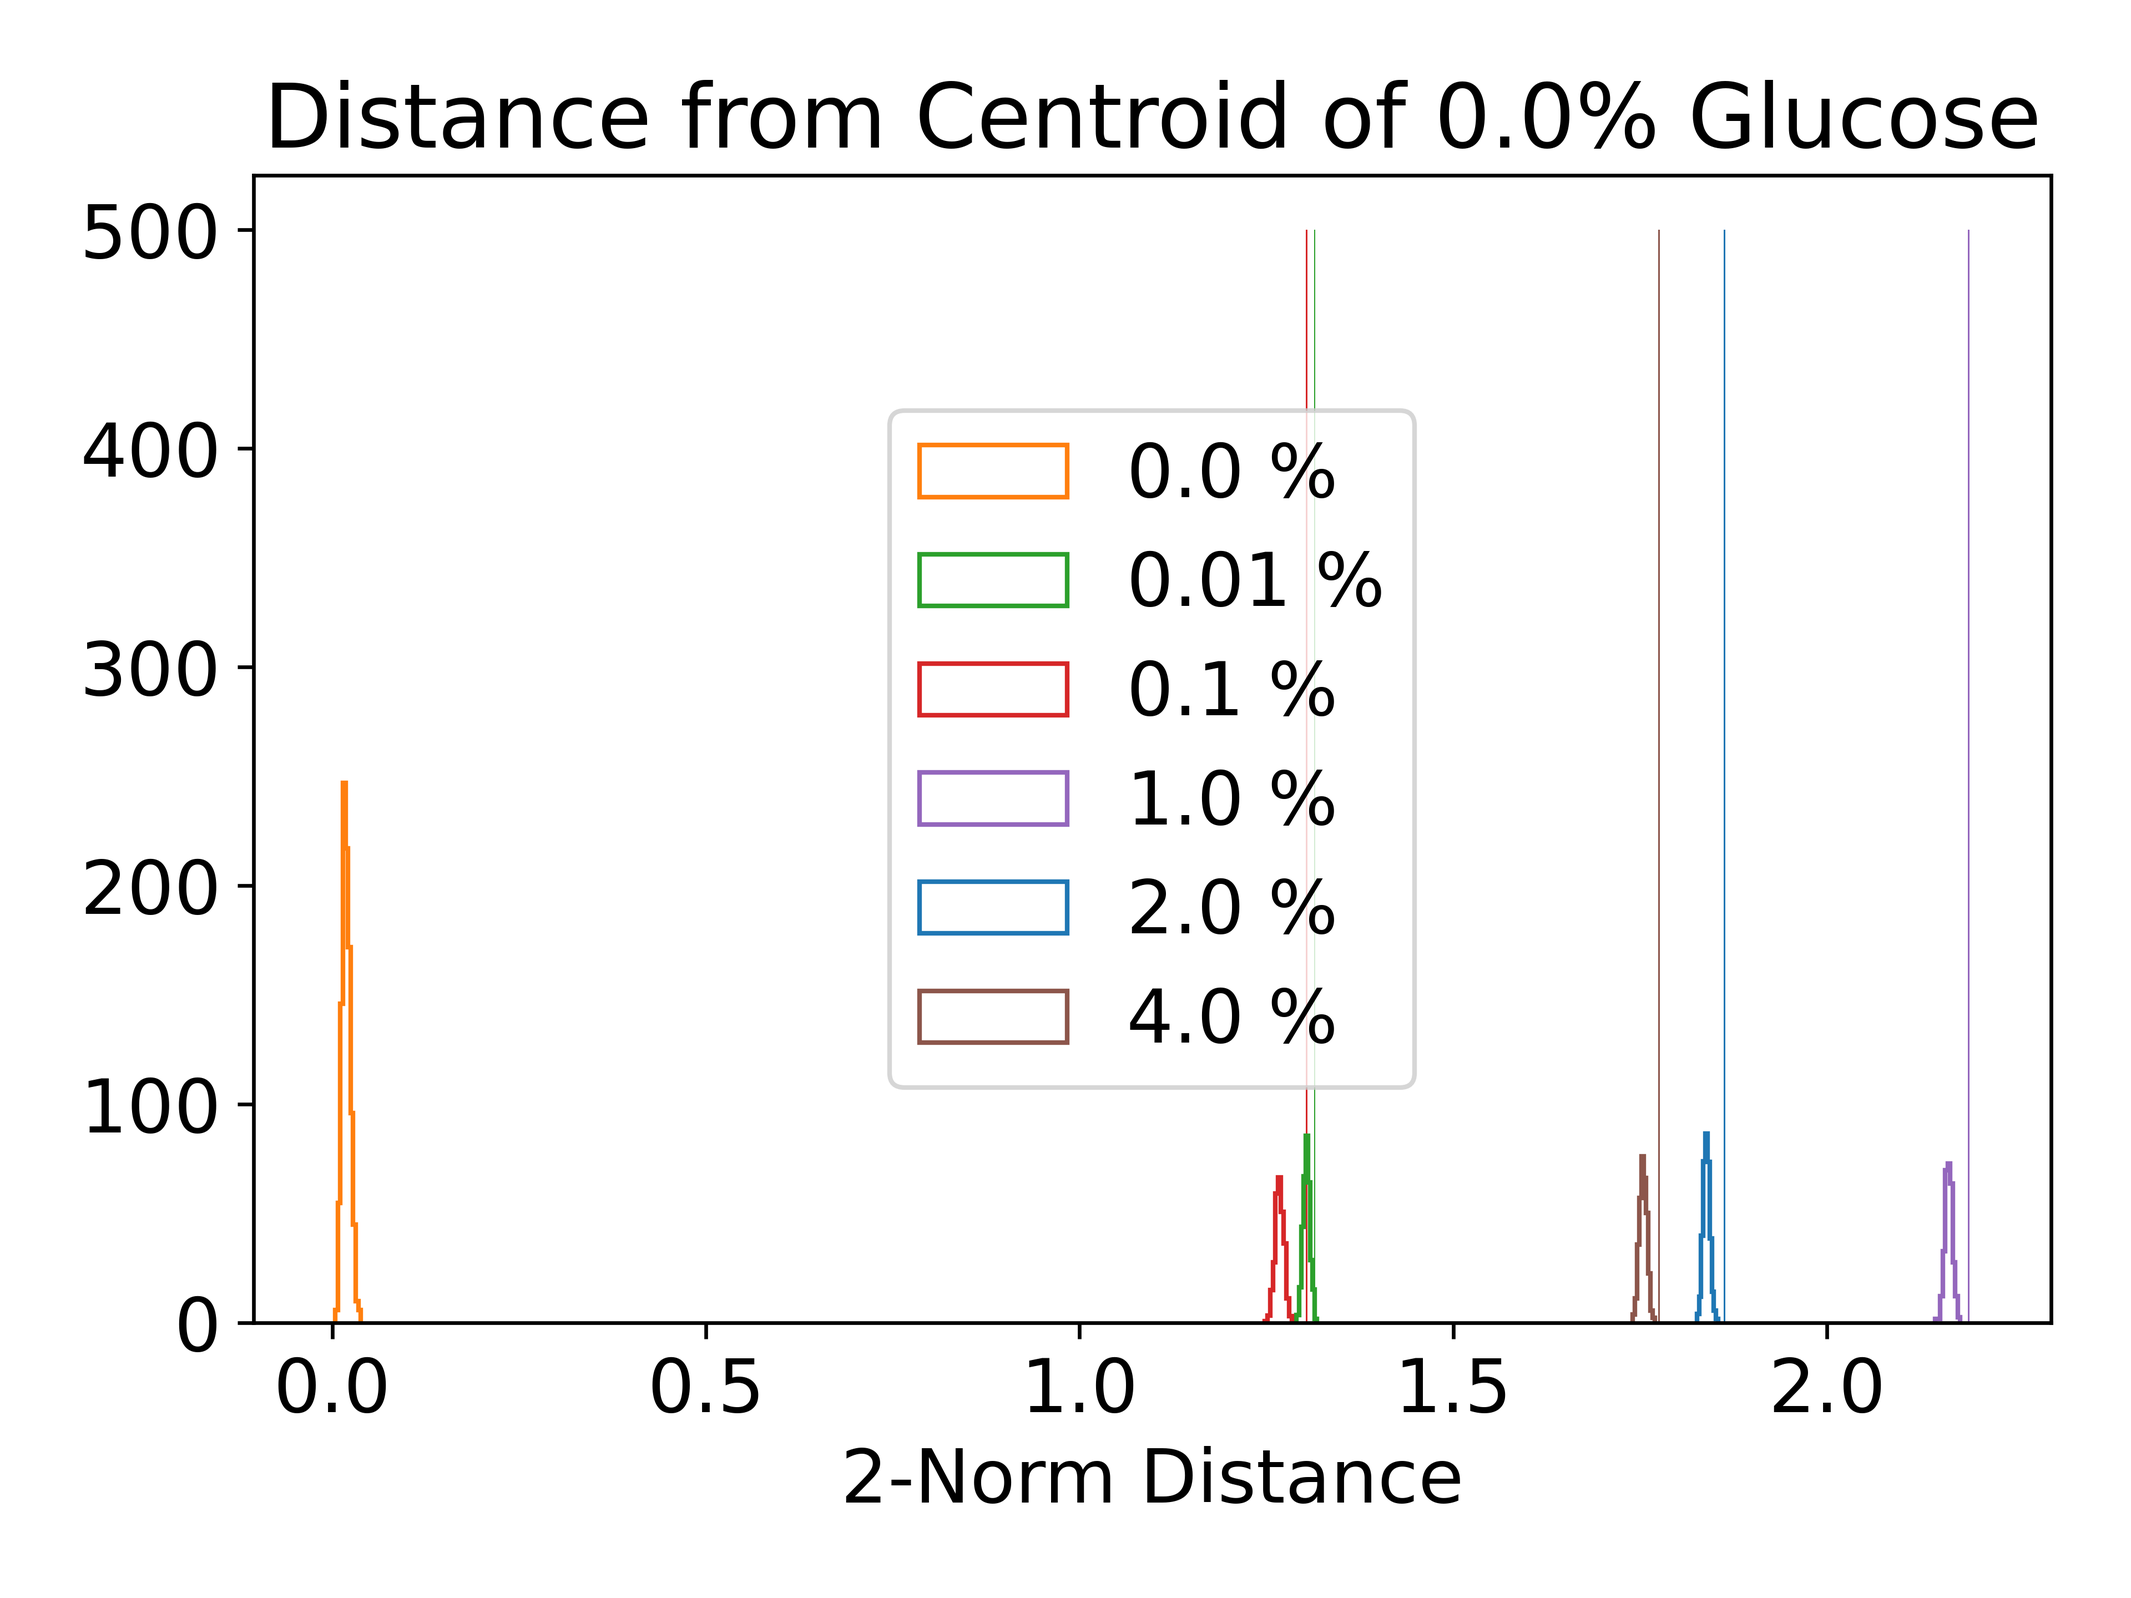
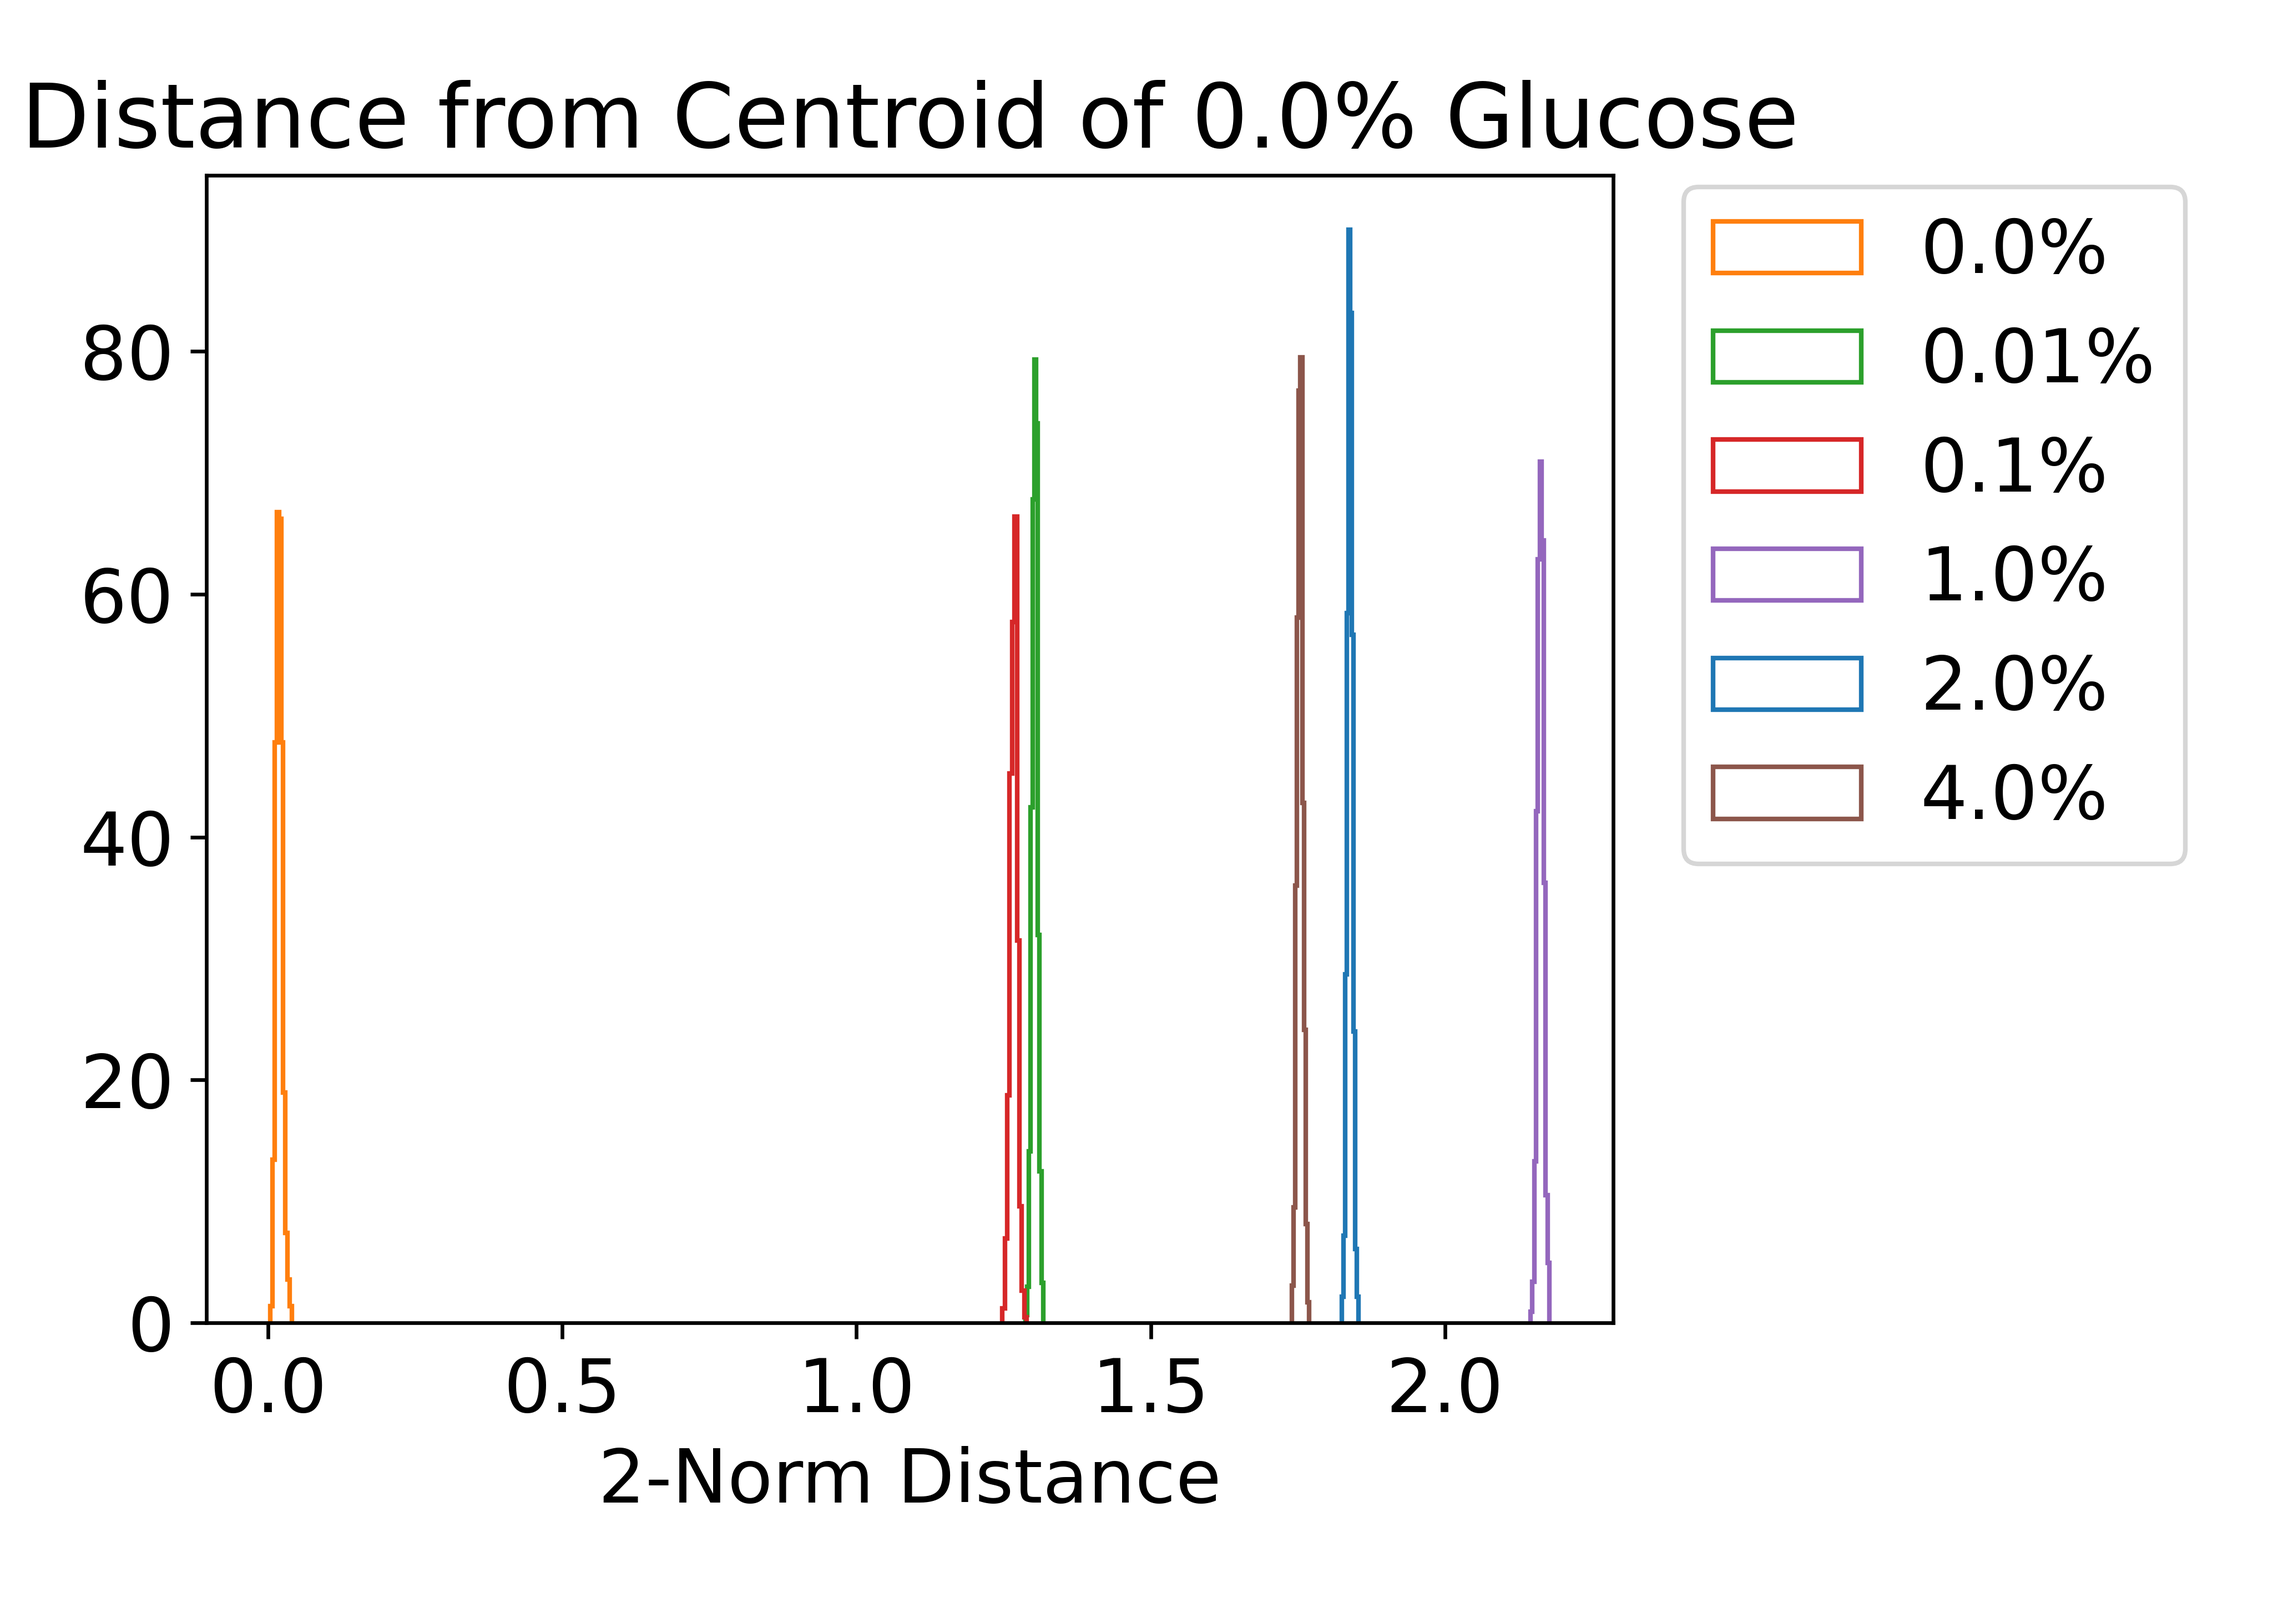
improve distance distribution; plot manual segment comparison

diff --git a/scripts/rebuttal/manual_segment.py b/scripts/rebuttal/manual_segment.py
@@ -19,7 +19,7 @@ organelles = [
 folder_img = Path("images/rebuttal_manual")
 folder_data = Path("data/EYrainbow_glucose_largerBF/")
 
-# %%
+# %% white pixels in ImageJ uint16 images are not 'white'
 
 whites = {
     "peroxisome":   1608,
@@ -203,24 +203,42 @@ pivot_orga_bycell.loc[pivot_manual_bycell_totl.index,'total'] = pivot_manual_byc
 df_orga_bycell = pivot_orga_bycell.reset_index()
 
 # %%
+correlations = []
 for organelle in organelles:
-    plt.figure()
-    plt.title(organelle)
-    plt.scatter(
-        df_orga_bycell.loc[
+    x = df_orga_bycell.loc[
             df_orga_bycell["organelle"].eq(organelle)
           & df_orga_bycell["method"].eq('ilastik'),
-            "total"
-        ],
-        df_orga_bycell.loc[
+            ["idx-cell","total"]
+        ]
+    y = df_orga_bycell.loc[
             df_orga_bycell["organelle"].eq(organelle)
           & df_orga_bycell["method"].eq('manual'),
-            "total"
+            ['idx-cell',"total"]
         ]
-    )
-    plt.plot(
-        [np.min(df_orga_bycell.loc[df_orga_bycell["organelle"].eq(organelle)& df_orga_bycell["method"].eq('ilastik'),"total"]),np.max(df_orga_bycell.loc[df_orga_bycell["organelle"].eq(organelle)& df_orga_bycell["method"].eq('ilastik'),"total"])],
-        [np.min(df_orga_bycell.loc[df_orga_bycell["organelle"].eq(organelle)& df_orga_bycell["method"].eq('ilastik'),"total"]),np.max(df_orga_bycell.loc[df_orga_bycell["organelle"].eq(organelle)& df_orga_bycell["method"].eq('ilastik'),"total"])]
-    )
-    plt.show()
+    x.set_index('idx-cell',inplace=True)
+    y.set_index('idx-cell',inplace=True)
+    xy = x.join(y,how='outer',lsuffix="_x",rsuffix="_y")
+    # xy_zero = xy.copy()
+    # xy_zero.loc[xy_zero["total_x"].isna(),"total_x"] = 0
+    # xy_zero.loc[xy_zero["total_y"].isna(),"total_y"] = 0
+    xy_drop = xy.dropna()
+    corr = np.corrcoef(xy_drop,rowvar=False)
+    correlations.append(corr[1,0])
+    
+    plt.figure()
+    plt.title(f"{organelle} Segmented Total Volume per Cell",fontsize=18)
+    plt.xlabel("Ilastik/$\\mu m^3$",fontsize=18)
+    plt.ylabel("Manual/$\\mu m^3$",fontsize=18)
+    plt.scatter(x,y)
+    # plt.plot(
+    #     [x.min(),x.max()],
+    #     [x.min(),x.max()]
+    # )
+    plt.savefig(f"plots/manual_segment/scatter_{organelle}.png")
+plt.figure()
+plt.bar(np.arange(6),correlations)
+plt.xticks(np.arange(6),organelles)
+plt.xlabel("Organelle",fontsize=18)
+plt.ylabel("Correlation Coefficient",fontsize=18)
+plt.savefig(f"plots/manual_segment/correlation_coefficient.png")
 # %%

diff --git a/scripts/rebuttal/pca_resample.py b/scripts/rebuttal/pca_resample.py
@@ -2,6 +2,7 @@
 import numpy as np
 import pandas as pd
 import matplotlib.pyplot as plt
+from matplotlib.figure import figaspect
 from pathlib import Path
 from sklearn.decomposition import PCA
 from sklearn.linear_model import LinearRegression
@@ -227,7 +228,7 @@ pca = PCA(n_components=6)
 pca.fit(np_pca)
 pca_components = pca.components_
 
-# %%
+# align pc with condition vectors
 cosine_pca = np.dot(pca_components,vec_centroid)
 for c in range(len(cosine_pca)):
     if cosine_pca[c] < 0:
@@ -306,30 +307,31 @@ for g0 in range(6): # g stands for glucose
     subtract_same = centroids[:,g0,:] - true_centroid
     distance_same = np.apply_along_axis(np.linalg.norm,axis=1,arr=subtract_same)
 
-    plt.figure()
+    w,h = figaspect(0.7)
+    plt.figure(figsize=(w,h))
     plt.hist(
-        distance_same,
+        distance_same, density=True,
         color=cmap(list_colors["glucose"][g0]),histtype='step',
-        label=f"{df_centroid.index[g0]*2/100} %"
+        label=f"{df_centroid.index[g0]*2/100}%"
     )
     for g1 in range(6):
         if g1==g0:
             continue
-        distance_centroid = np.linalg.norm((np_centroid[g1] - true_centroid))
+        # distance_centroid = np.linalg.norm((np_centroid[g1] - true_centroid))
         subtract_across = centroids[:,g1,:] - true_centroid
         distance_across = np.apply_along_axis(np.linalg.norm,axis=1,arr=subtract_across)
         plt.hist(
             distance_across,density=True,
             color=cmap(list_colors["glucose"][g1]),histtype='step',
-            label=f"{df_centroid.index[g1]*2/100} %"
+            label=f"{df_centroid.index[g1]*2/100}%"
         )
-        plt.hist(
-            [distance_centroid],
-            bins=[distance_centroid-0.001,distance_centroid+0.001],
-            density=True,
-            color=cmap(list_colors["glucose"][g1]),histtype='stepfilled',
-        )
-    plt.legend()
+        # plt.hist(
+        #     [distance_centroid],
+        #     bins=[distance_centroid-0.001,distance_centroid+0.001],
+        #     density=True,
+        #     color=cmap(list_colors["glucose"][g1]),histtype='stepfilled',
+        # )
+    plt.legend(loc=(1.05,0.4))
     plt.title(f"Distance from Centroid of {df_centroid.index[g0]*2/100}% Glucose")
     plt.xlabel(f"2-Norm Distance")
 
@@ -338,7 +340,5 @@ for g0 in range(6): # g stands for glucose
         f"plots/pca_error_analysis/distance-distrib_glucose-{str(df_centroid.index[g0]).replace('.','-')}.png",
         dpi=600
     )
-
-
 
 # %%
